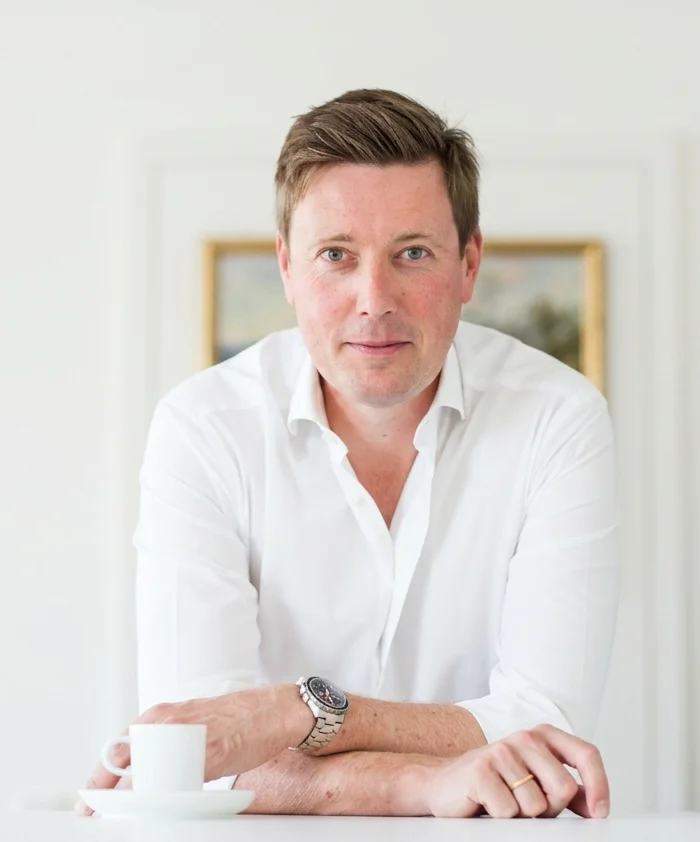
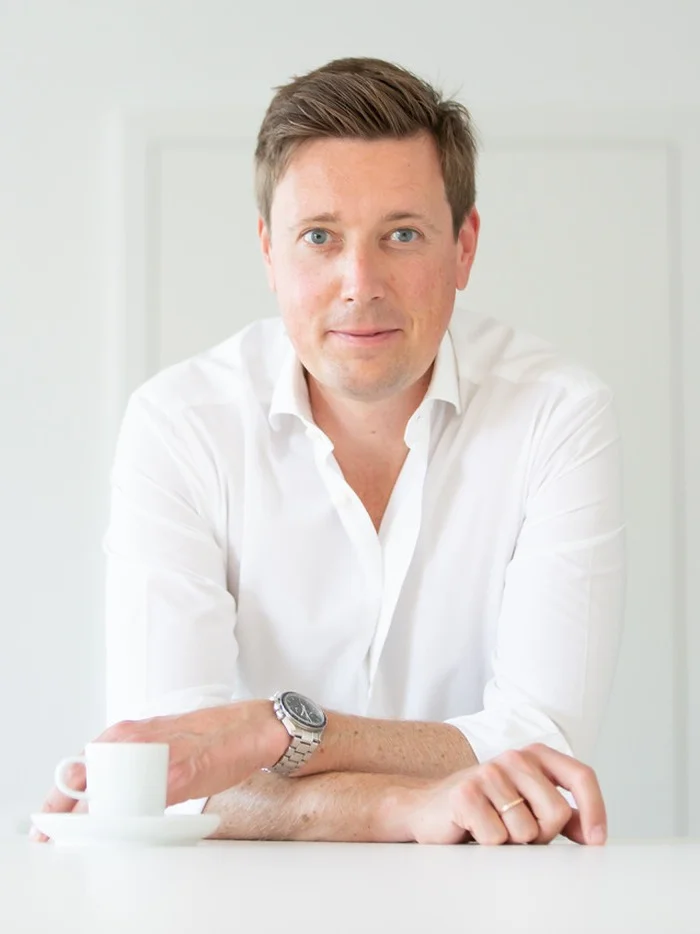
Center Alex Raffeiner portrait crop

diff --git a/index.html b/index.html
@@ -173,7 +173,7 @@ footer a:hover{color:var(--white)}
 <p>FH-Professor und Leiter des Department f&uuml;r Tourismus- &amp; Freizeitwirtschaft am MCI Innsbruck. Forschungsschwerpunkte: Leadership, Destinationsentwicklung und Nachhaltigkeit. Renommierter Keynote Speaker, Leadership Coach und strategischer Berater.</p>
 </div>
 <div class="host">
-<img src="/images/host-raffeiner.webp?v=2" alt="Alexander Raffeiner" loading="lazy">
+<img src="/images/host-raffeiner.webp?v=5" alt="Alexander Raffeiner" loading="lazy">
 <h3>Alexander Raffeiner</h3>
 <p>Unternehmer, Gr&uuml;nder von RAFFEINER REPUTATION und LOFT1080, Strategie- und Kommunikationsberater. Erfahrener Moderator und Sparring-Partner in Positionierungs-, Change- und Verhandlungsprozessen. Fokus: klares Leadership, wirksames Stakeholder-Management.</p>
 </div>